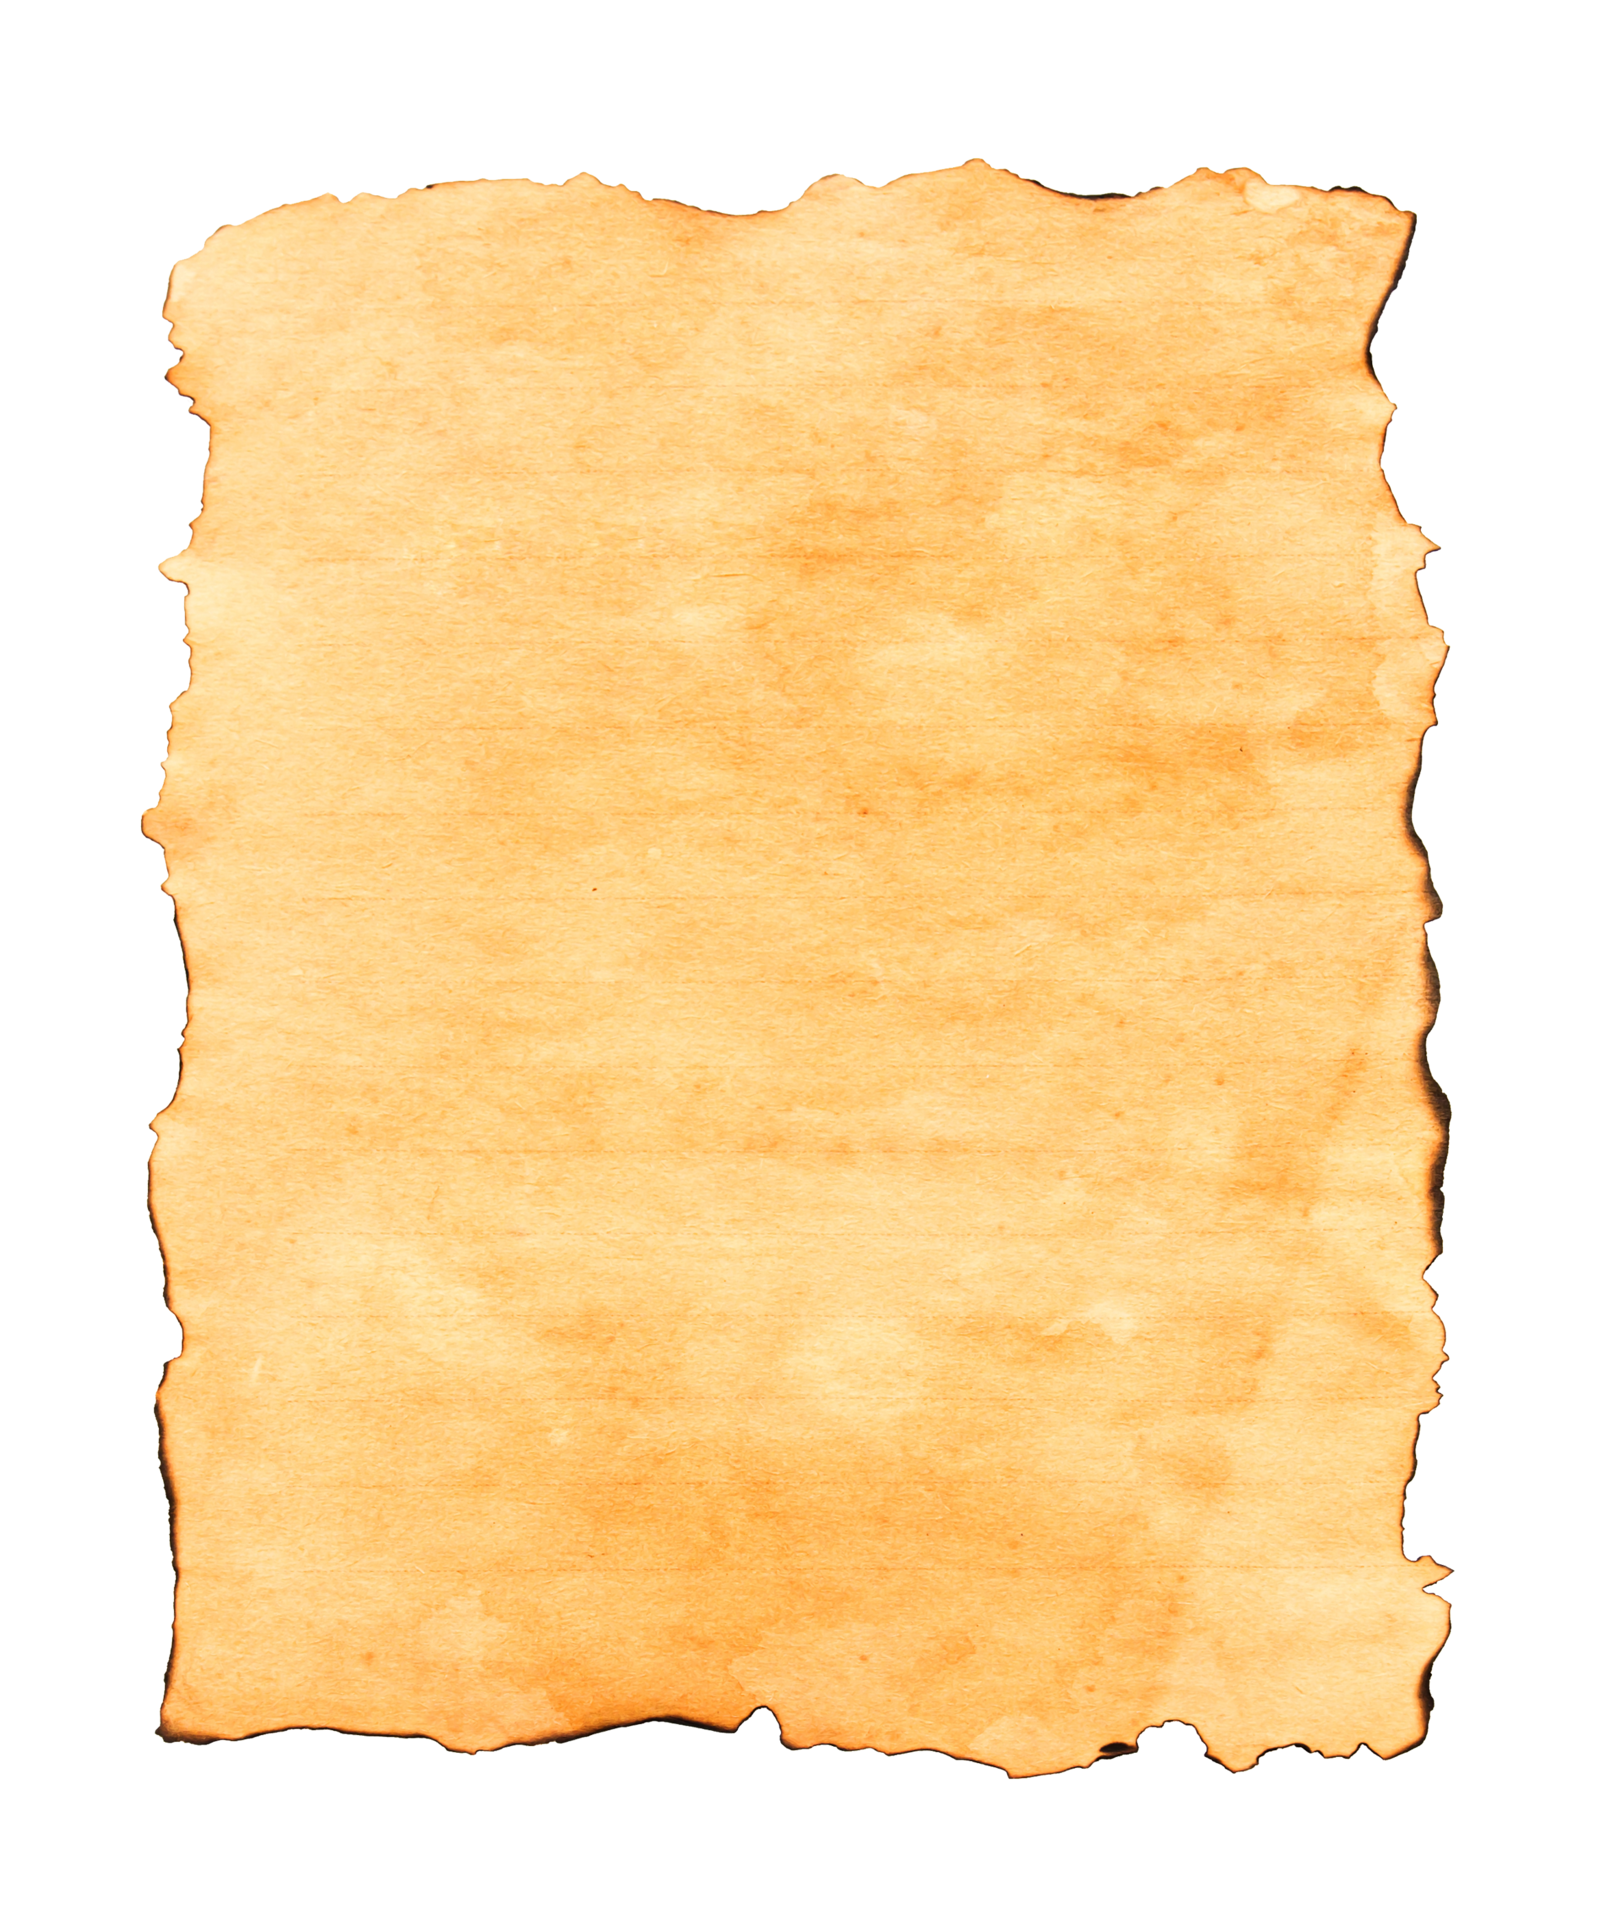
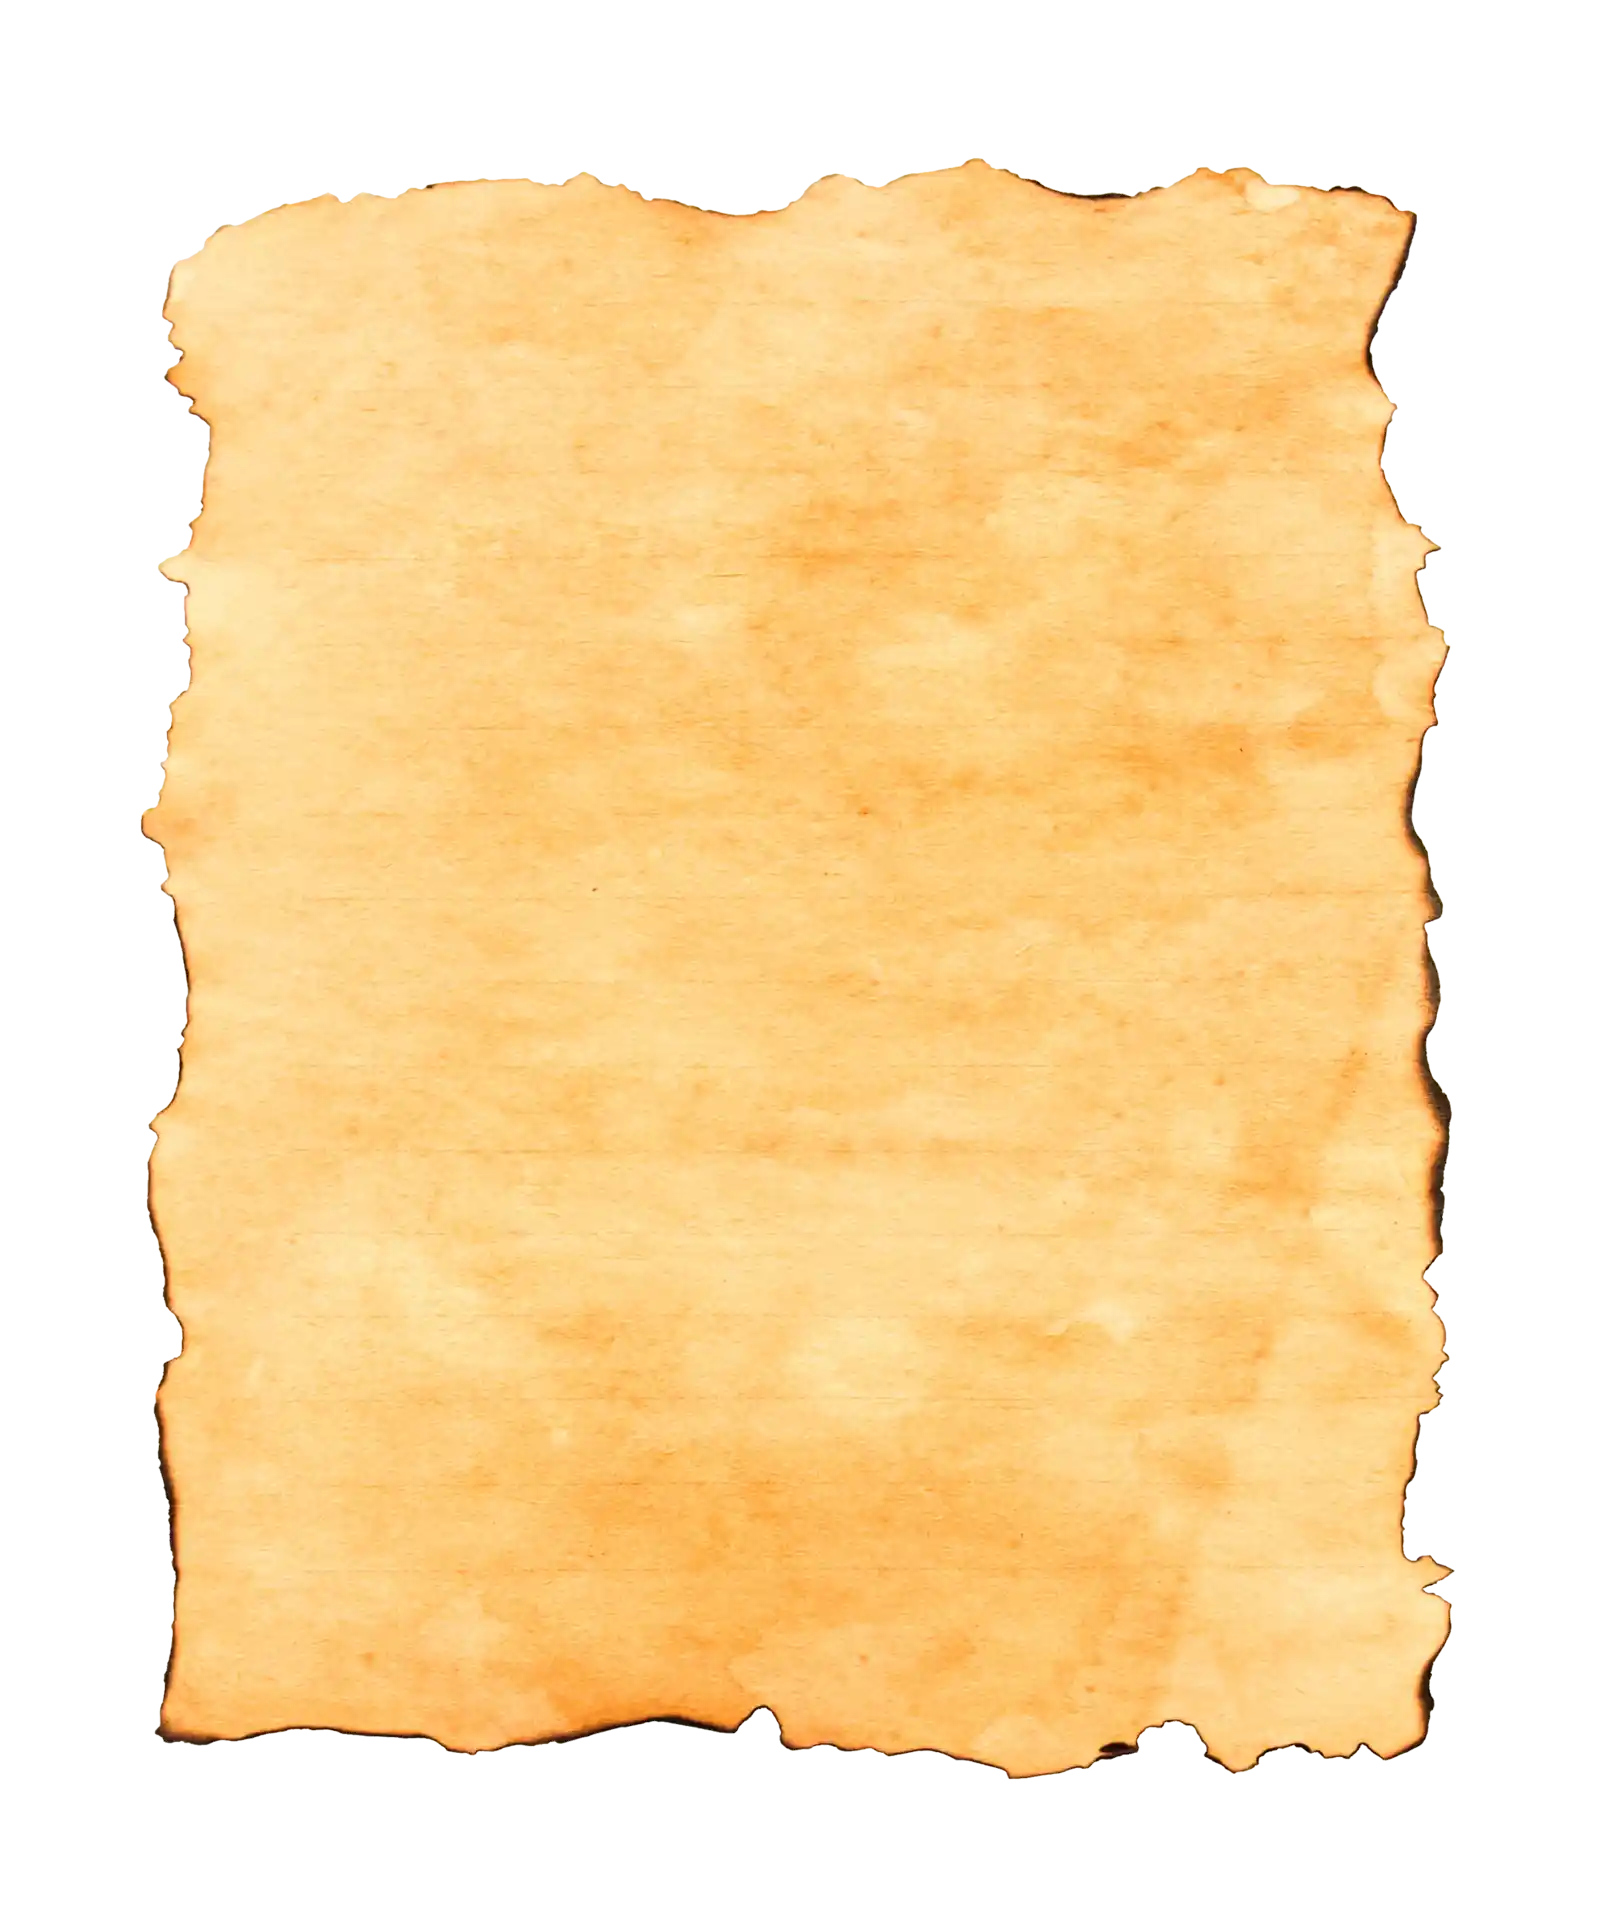
style update

diff --git a/reasype/src/styles.css b/reasype/src/styles.css
@@ -1,22 +1,28 @@
 *::before, *::after{
     box-sizing: border-box;
 }
+*{
+    /* background-image: url("./background.jpg"); */
+}
 
 body{
     margin: 0;
-    background: linear-gradient(to right, #ECB390, #DF7861);
+    background-image: url("./background.jpg");
+    bottom: 0; 
+    /* background: linear-gradient(to right, #ECB390, #DF7861); */
     /* display: flex;
     justify-content: center; */
     font-family: "Times New Roman",serif;
     font-size: 1.1rem;
     color: #3e2234;
     letter-spacing: 0.06rem;
+    opacity: 50px;
 }
 
 
 input, select, option{
     background-color:#FCF8E8;
-    box-shadow: 2px 2px 5px 0px #ECB390;
+    box-shadow: 2px 2px 5px 0px #5C3D2E;
     border: none;
     padding: 5px 15px;
     border-radius: 15px;
@@ -35,7 +41,7 @@ button{
     border-radius: 25px;
     border: 0;
     padding: 0 12px;
-    background-color:#90b2d4;
+    /* background-color:#90b2d4; */
     /* box-shadow: 2px 2px 5px 0px #7c9adc; */
     font-family: "Times New Roman",serif;
     color: #3e2228;
@@ -85,13 +91,14 @@ button:active{
     margin-top: 100px;
     width: auto;
     height: 400px;
-    opacity: 0.8;
+    opacity: 1.1;
 }
 
 .container {
     margin: 35px 0;
-    background-color:  #94B49F;
-    justify-content: center;
+    /* background-color:  #94B49F; */
+    background: rgb(250,243,224);
+background: linear-gradient(0deg, rgba(250,243,224,0.927608543417367) 15%, rgba(226,190,164,0.9248074229691877) 50%, rgba(250,243,224,0.9640231092436975) 85%);
     /* border: 1px solid #FCF8E8; */
     min-height: 80vh;
     min-width: 600px;
@@ -243,7 +250,7 @@ h3{
     border: 0;
     padding: 12px 25px;
     background-color:#f3dbcb;
-    box-shadow: 2px 2px 5px 0px #ECB390;
+    box-shadow: 2px 2px 5px 0px #5C3D2E;
     font-family: "Times New Roman",serif;
     font-size: 1.1rem;
     color: #3e2234;
@@ -298,13 +305,32 @@ datalist{
 #advanced-7 > input {padding: 10px 40px;}
 #advanced-8 { grid-area: 4 / 2 / 5 / 3; }
 #advanced-8 > button{ 
-    margin-top: 40px;
-    background-image: linear-gradient(#f4be9aab, #f2eecb);
+    margin: 40px auto 20px auto;
+    color: #FCF8E8;
+    transition: 0.5s;
+    background-image: linear-gradient(to right, #8CA6DB  0%, #B993D6  51%, #8CA6DB  100%);
+    box-shadow: 0 0 20px #eee;
+    background-size: 200% auto;
     width: 120px;
     padding: 15px 15px;
     border-radius: 55px;
     font-size: 1rem;
 }
+
+#advanced-8 > button:hover{
+    background-position: right center; /* change the direction of the change here */
+    color: #fff;
+    text-decoration: none;
+}
+
+#advanced-8 > button:focus{
+    outline: none;
+}
+#advanced-8 > button:active{
+    box-shadow: inset 5px 5px 10px -3px rgba(0, 0, 0, 0.7);
+}
+
+
 #advanced-paper { 
     margin-top: -120px;
     margin-left: -32px;
@@ -431,18 +457,33 @@ datalist{
 .advanced-search--button{
     display: flex;
 }
-
+         
+        
 .advanced-search--button > button{
     margin: 40px auto 20px auto;
-    
-    background-image: linear-gradient(#d0cdfdab, #b58ebc);
+    color: #FCF8E8;
+    transition: 0.5s;
+    background-image: linear-gradient(to right, #B993D6 0%, #8CA6DB  51%, #B993D6  100%);
+    box-shadow: 0 0 20px #eee;
+    background-size: 200% auto;
     width: 120px;
     padding: 15px 15px;
     border-radius: 55px;
     font-size: 1rem;
 }
 
+.advanced-search--button > button:hover{
+    background-position: right center; /* change the direction of the change here */
+    color: #fff;
+    text-decoration: none;
+}
 
+.advanced-search--button>button:focus{
+    outline: none;
+}
+.advanced-search--button>button:active{
+    box-shadow: inset 5px 5px 10px -3px rgba(0, 0, 0, 0.7);
+}
 
 .diet-value--filter{
     display: block;

diff --git a/reasype/src/components/Filter.js b/reasype/src/components/Filter.js
@@ -74,7 +74,7 @@ export default function Filter(props) {
     }
 
     function handleEnumChange(data, name) {
-        console.log('Filter handleEnumChange' + data + name)
+        // console.log('Filter handleEnumChange' + data + name)
         setRecipeData(prevData => ({
             ...prevData,
             // [name]: value
@@ -89,7 +89,7 @@ export default function Filter(props) {
     })
 
     function toggleAdvancedSearch() {
-        console.log('setting adv/reg')
+        // console.log('setting adv/reg')
         setIsAdvanced((oldAdvanced) => !oldAdvanced)
         
     }

diff --git a/reasype/src/components/Recipe.js b/reasype/src/components/Recipe.js
@@ -26,7 +26,7 @@ export default function Recipe(props) {
         return obj;
     }
 
-    console.log(props.resultRecipe)
+    // console.log(props.resultRecipe)
     return (
         <div className="recipe--container">
             <div className="recipe--header"><h1>{props.resultRecipe.label}</h1></div>
